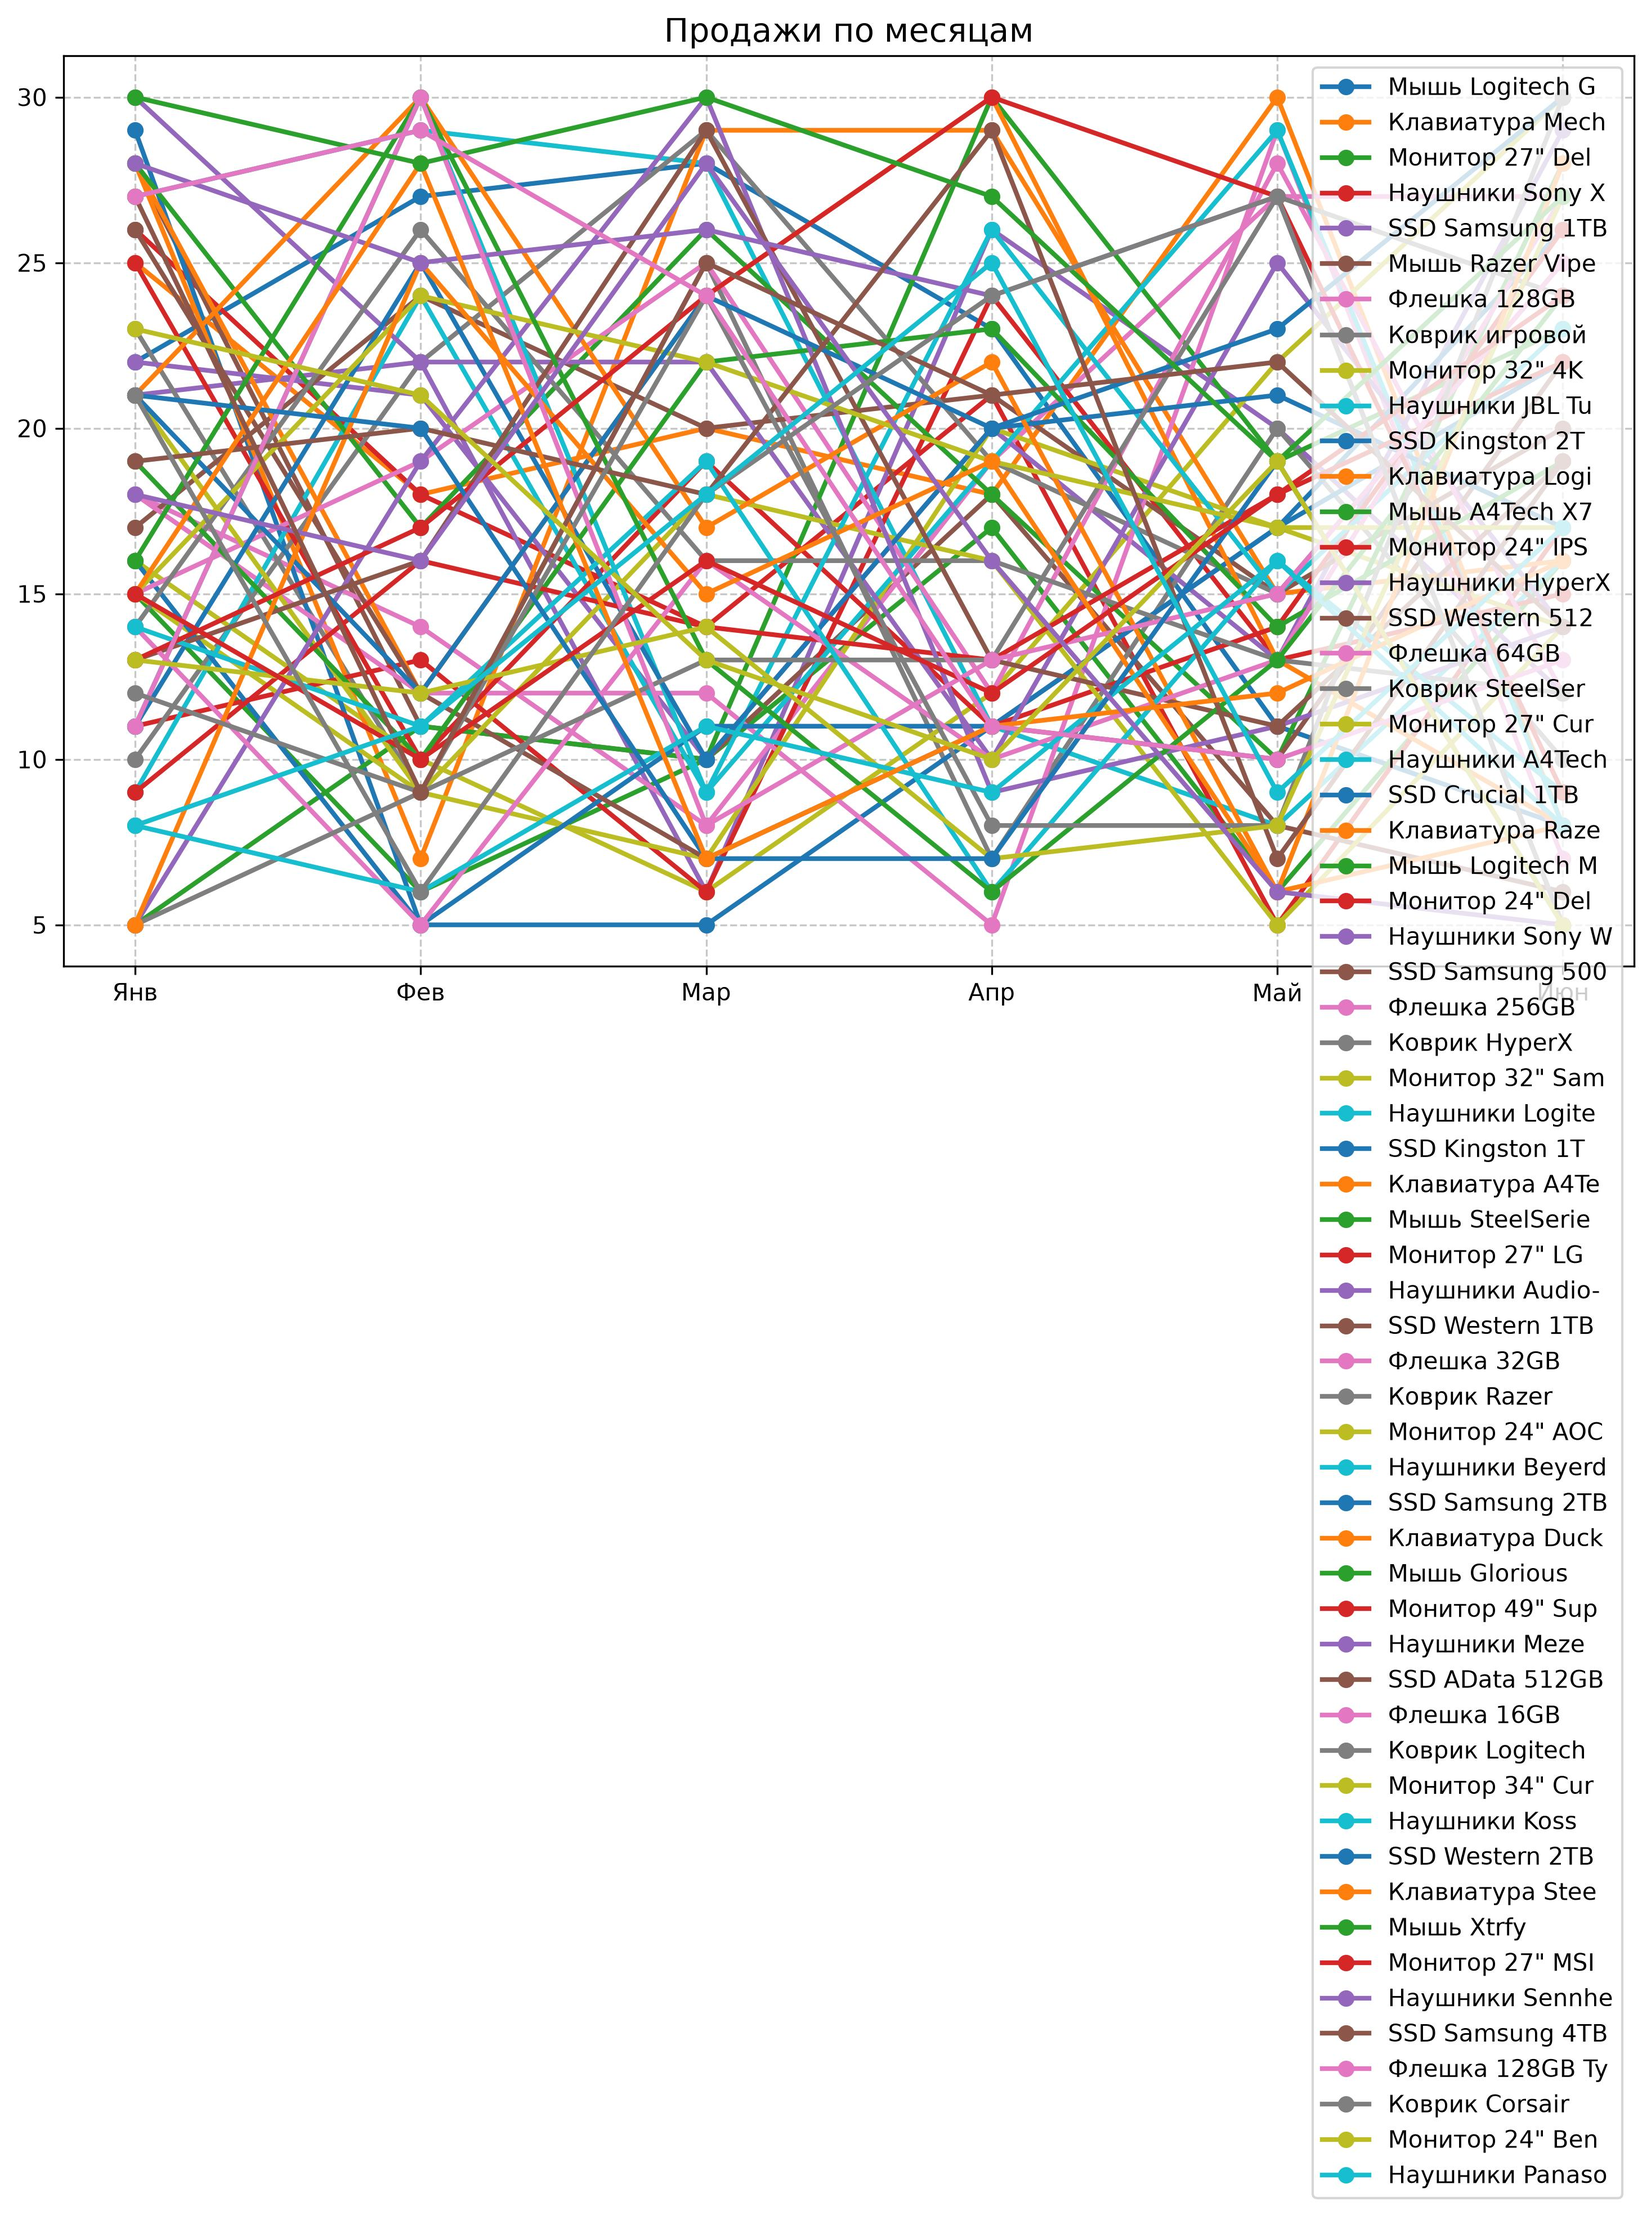
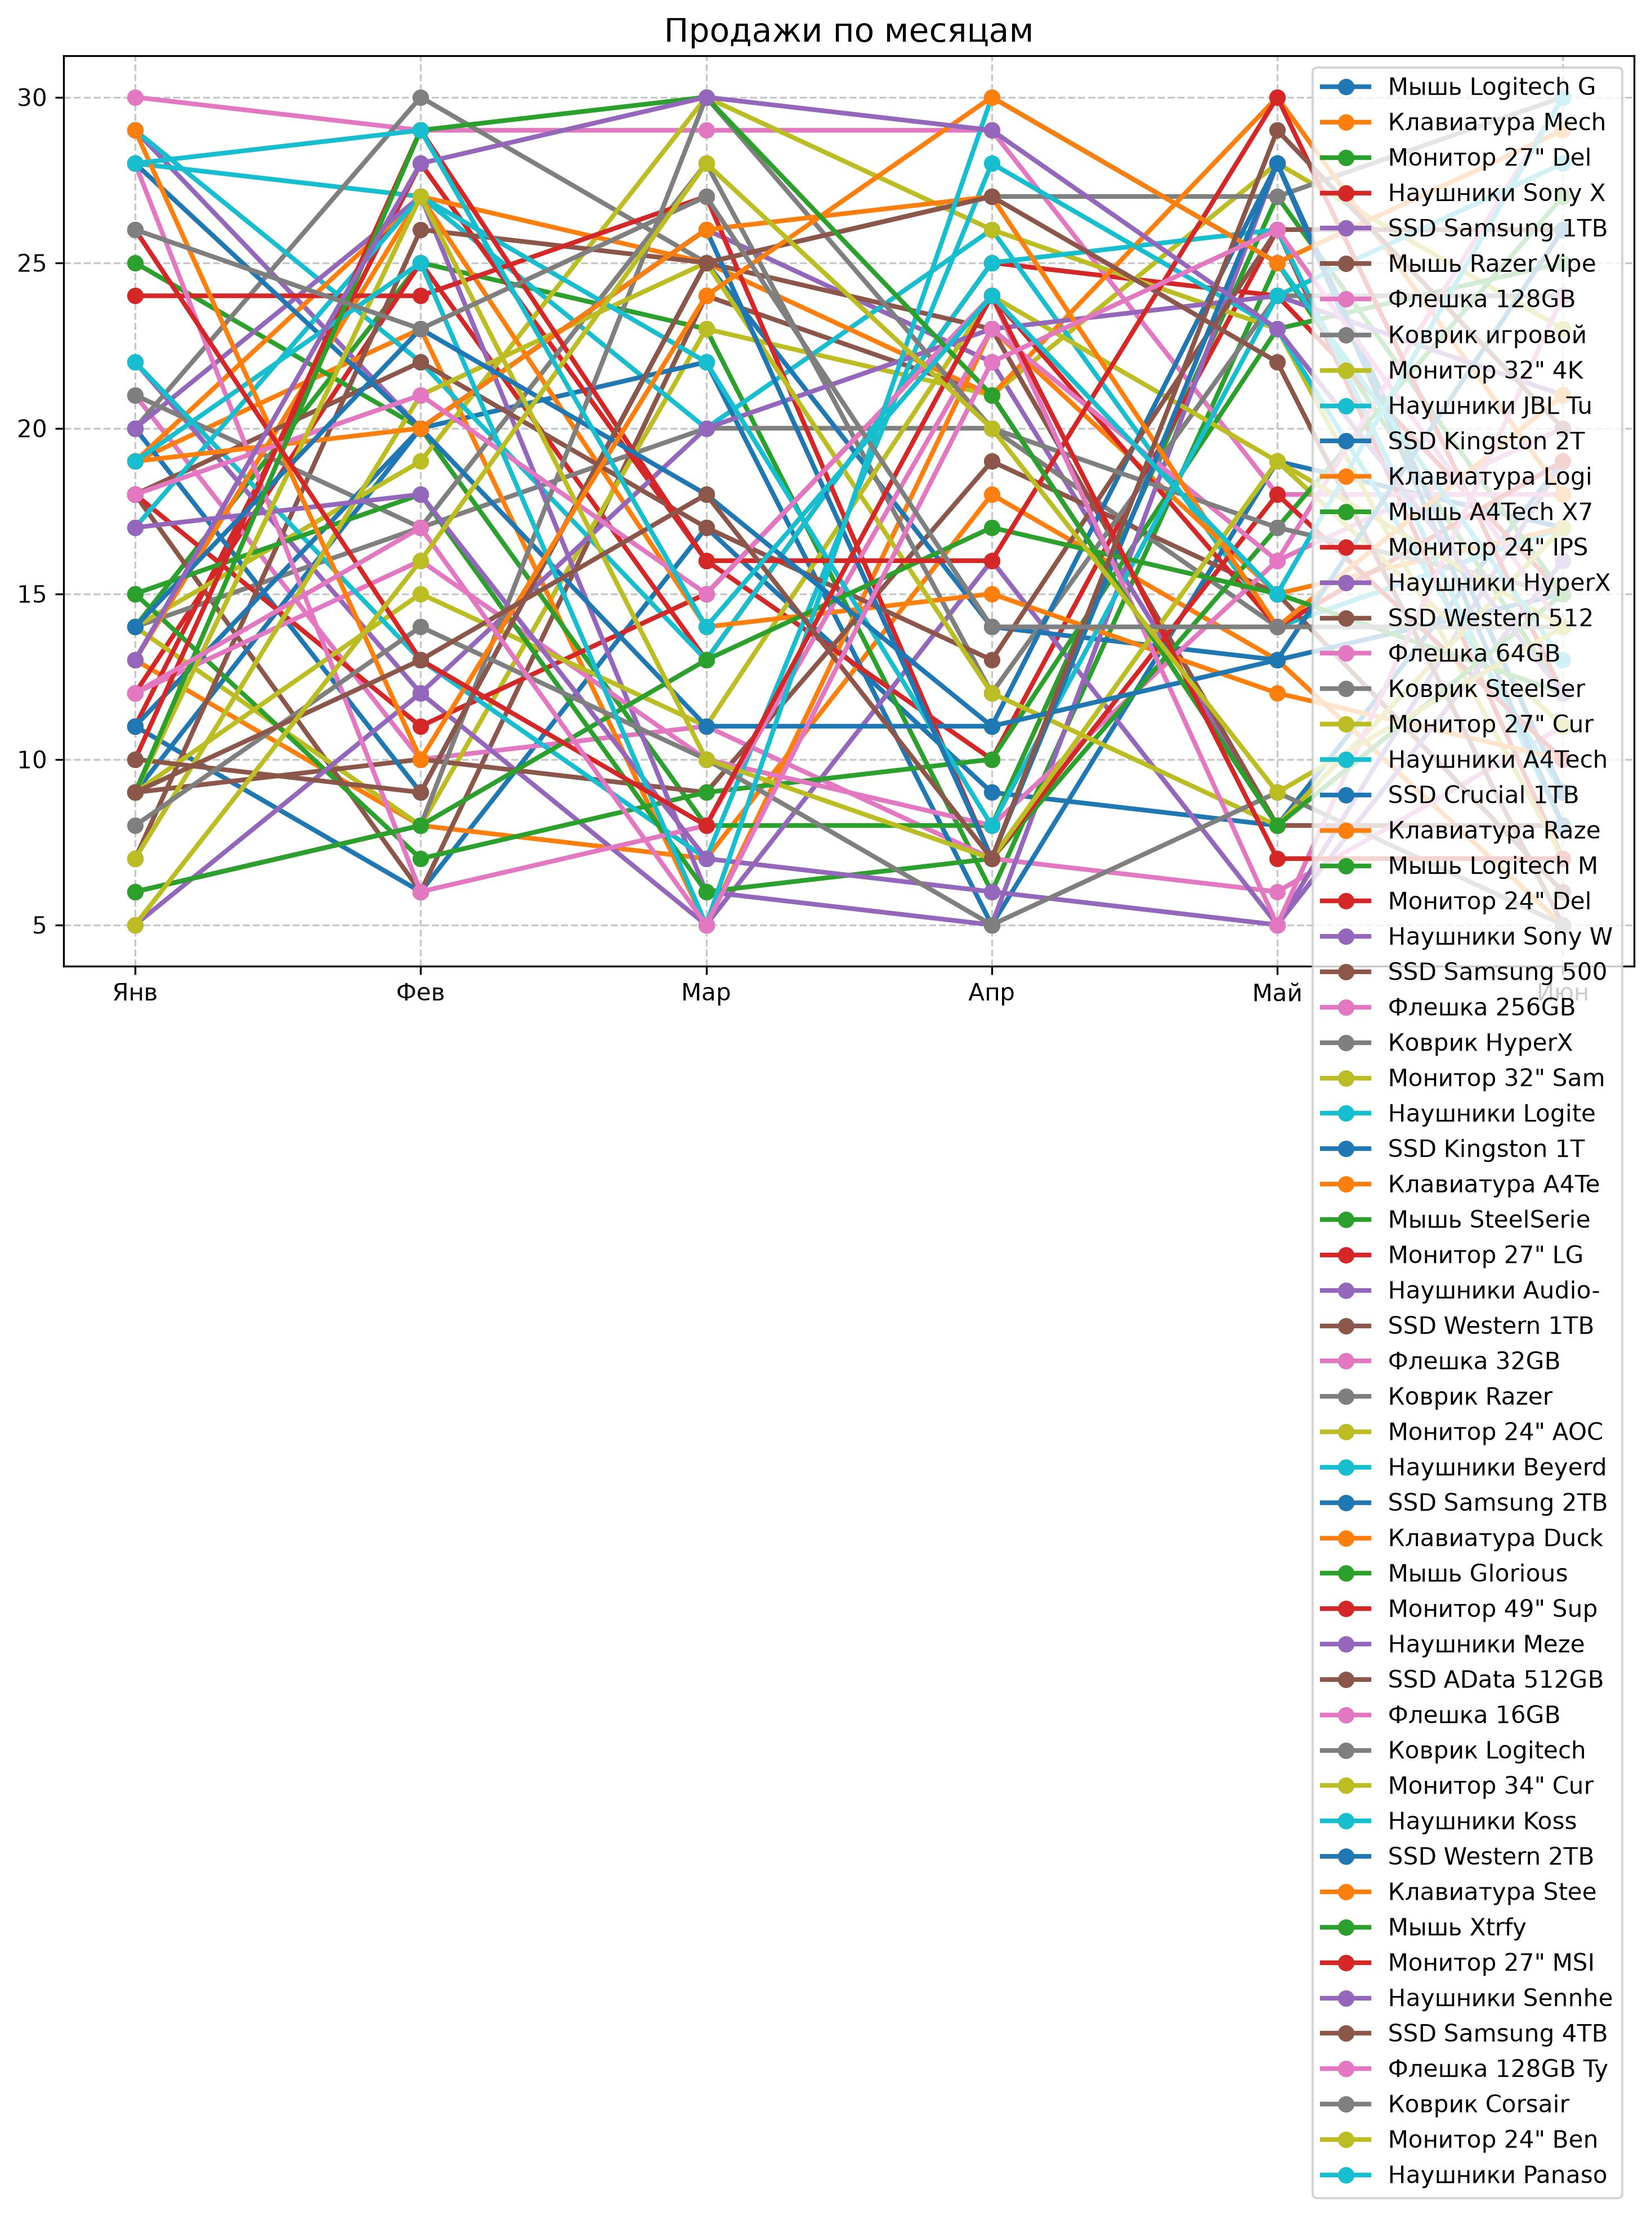
fix: кнопка в 5-й вкладке больше не дублируется при сбросе фильтров

Changed region(s): [[0.0621, 0.031, 0.9618, 0.4342]]

diff --git a/StockInsight/StockInsight/StockInsight.cpp b/StockInsight/StockInsight/StockInsight.cpp
@@ -205,9 +205,14 @@ StockInsight::StockInsight(QWidget* parent)
         page->setLayout(layout);
         tabs->addTab(page, tabNames[i]);
         chartLayouts.append(layout);
+
+        // Сохраняем layout 5-й вкладки отдельно
+        if (i == 4) {
+            selectedLayout = layout;
+        }
     }
     chartsWrapperLayout->addWidget(tabs);
-    
+
     // Изначально вкладки скрыты, видна только заглушка
     tabs->setVisible(false);
 
@@ -365,6 +370,7 @@ void StockInsight::clearTable()
 
     // Удаляем графики, если они показаны
     if (chartsVisible) {
+        // Очищаем все вкладки
         for (int i = 0; i < chartLayouts.size(); ++i) {
             QLayout* layout = chartLayouts[i];
             QLayoutItem* item;
@@ -373,6 +379,11 @@ void StockInsight::clearTable()
                 delete item;
             }
         }
+
+        // Сбрасываем указатели на виджеты 5-й вкладки
+        selectedChartLabel = nullptr;
+        saveSelectedBtn = nullptr;
+
         chartsVisible = false;
         showChartsBtn->setText("📈 Показать графики");
         showChartsBtn->setToolTip("Сгенерировать и показать графики");
@@ -434,8 +445,8 @@ void StockInsight::loadChartsToTabs()
     }
     tabs->setVisible(true);
 
-    // Очищаем старые виджеты во вкладках
-    for (int i = 0; i < chartLayouts.size(); ++i) {
+    // Очищаем старые виджеты во вкладках (кроме 5-й, там будем пересоздавать только QLabel)
+    for (int i = 0; i < chartLayouts.size() - 1; ++i) {
         QLayout* layout = chartLayouts[i];
         QLayoutItem* item;
         while ((item = layout->takeAt(0)) != nullptr) {
@@ -486,11 +497,22 @@ void StockInsight::loadChartsToTabs()
         chartLayouts[i]->addWidget(label);
     }
 
-    // --- 5-я вкладка: История выбранных ---
-    if (chartLayouts.size() > 4) {
-        // НЕ добавляем кнопку здесь! Она создаётся в loadSelectedCharts()
+    // --- 5-я вкладка: История выбранных (создаём кнопку ОДИН РАЗ) ---
+    if (chartLayouts.size() > 4 && selectedLayout) {
+        // Проверяем, есть ли уже кнопка
+        if (!saveSelectedBtn) {
+            // Создаём кнопку сохранения для 5-й вкладки (ОДИН РАЗ)
+            saveSelectedBtn = new QPushButton("💾 Сохранить JPEG");
+            saveSelectedBtn->setToolTip("Сохранить этот график в JPEG-файл");
+            saveSelectedBtn->setMaximumWidth(170);
+            selectedLayout->addWidget(saveSelectedBtn, 0, Qt::AlignCenter);
+            connect(saveSelectedBtn, &QPushButton::clicked, this, [this]() {
+                exportCurrentChart(4);
+                });
+        }
+
         chartsVisible = true;
-        loadSelectedCharts();
+        loadSelectedCharts();  // Здесь будет создаваться/обновляться только QLabel
     }
 
     chartsVisible = true;
@@ -514,6 +536,10 @@ void StockInsight::showCharts()
                 delete item;
             }
         }
+
+        // Сбрасываем указатели на виджеты 5-й вкладки
+        selectedChartLabel = nullptr;
+        saveSelectedBtn = nullptr;
 
         chartsVisible = false;
         showChartsBtn->setText("📈 Показать графики");
@@ -618,15 +644,7 @@ void StockInsight::applyFilters()
 
     // Обновляем 5-й график, если он показан
     if (chartsVisible) {
-        QVBoxLayout* layout = qobject_cast<QVBoxLayout*>(chartLayouts[4]);
-        if (layout) {
-            QLayoutItem* item;
-            while ((item = layout->takeAt(0)) != nullptr) {
-                delete item->widget();
-                delete item;
-            }
-        }
-        loadSelectedCharts();
+        loadSelectedCharts();  // Обновляем только график, кнопка не трогается
     }
 }
 
@@ -1030,33 +1048,16 @@ void StockInsight::loadChartsFromAnalytics()
 void StockInsight::loadSelectedCharts()
 {
     // Если графики не показаны — ничего не делаем
-    if (!chartsVisible) {
+    if (!chartsVisible || !selectedLayout) {
         return;
     }
 
-    QVBoxLayout* layout = qobject_cast<QVBoxLayout*>(chartLayouts[4]);
-    if (!layout) return;
-
-    QLayoutItem* item;
-    while ((item = layout->takeAt(0)) != nullptr) {
-        delete item->widget();
-        delete item;
+    // Удаляем только QLabel с графиком (если есть)
+    if (selectedChartLabel) {
+        selectedLayout->removeWidget(selectedChartLabel);
+        delete selectedChartLabel;
+        selectedChartLabel = nullptr;
     }
-
-    // --- КНОПКА СОХРАНЕНИЯ (как на других вкладках, с ограничением ширины) ---
-    QHBoxLayout* btnLayout = new QHBoxLayout();
-    QPushButton* saveChartBtn = new QPushButton("💾 Сохранить JPEG");
-    saveChartBtn->setToolTip("Сохранить этот график в JPEG-файл");
-    saveChartBtn->setMaximumWidth(170);
-
-    btnLayout->addStretch();
-    btnLayout->addWidget(saveChartBtn);
-    btnLayout->addStretch();
-    layout->addLayout(btnLayout);
-
-    connect(saveChartBtn, &QPushButton::clicked, this, [this]() {
-        exportCurrentChart(4);
-        });
 
     // Проверяем, все ли товары видны
     bool allVisible = (table->rowCount() == currentProducts.size());
@@ -1068,6 +1069,7 @@ void StockInsight::loadSelectedCharts()
     }
 
     QLabel* label = new QLabel();
+    selectedChartLabel = label;  // Сохраняем для последующего удаления
 
     // Если все товары видны И график продаж существует — используем его
     if (allVisible && !currentProducts.isEmpty()) {
@@ -1075,10 +1077,8 @@ void StockInsight::loadSelectedCharts()
         if (QFile::exists(sourcePath)) {
             QPixmap pixmap(sourcePath);
             if (!pixmap.isNull()) {
-                // Сохраняем копию как chart_selected_history.jpeg
                 pixmap.save("charts/chart_selected_history.jpeg", "JPEG", 95);
-
-                QWidget* parentWidget = layout->parentWidget();
+                QWidget* parentWidget = selectedLayout->parentWidget();
                 int w = parentWidget->width() - 20;
                 int h = parentWidget->height() - 20;
                 if (w < 700) w = 700;
@@ -1086,7 +1086,7 @@ void StockInsight::loadSelectedCharts()
                 label->setPixmap(pixmap.scaled(w, h, Qt::KeepAspectRatio, Qt::SmoothTransformation));
                 label->setAlignment(Qt::AlignCenter);
                 label->installEventFilter(this);
-                layout->addWidget(label);
+                selectedLayout->addWidget(label);
                 return;
             }
         }
@@ -1098,7 +1098,7 @@ void StockInsight::loadSelectedCharts()
     if (visibleProducts.isEmpty()) {
         label->setText("Нет данных для отображения");
         label->setAlignment(Qt::AlignCenter);
-        layout->addWidget(label);
+        selectedLayout->addWidget(label);
         return;
     }
 
@@ -1132,7 +1132,7 @@ void StockInsight::loadSelectedCharts()
 
     QPixmap pixmap("charts/chart_selected_history.jpeg");
     if (!pixmap.isNull()) {
-        QWidget* parentWidget = layout->parentWidget();
+        QWidget* parentWidget = selectedLayout->parentWidget();
         int w = parentWidget->width() - 20;
         int h = parentWidget->height() - 20;
         if (w < 700) w = 700;
@@ -1144,7 +1144,7 @@ void StockInsight::loadSelectedCharts()
     else {
         label->setText("График не найден: charts/chart_selected_history.jpeg");
     }
-    layout->addWidget(label);
+    selectedLayout->addWidget(label);
 }
 
 // УСТАНАВЛИВАЕТ ТЕМУ (dark/light)
@@ -1239,11 +1239,7 @@ void StockInsight::toggleTheme()
     // Сохраняем тему в users.json
     saveThemeToFile(isDarkTheme ? "dark" : "light");
 
-    // Если таблица НЕ была очищена и есть данные — обновляем цвета
-    if (!isTableCleared && !currentProducts.isEmpty()) {
-        setAnalytics(currentAnalytics, currentProducts);
-    }
-
+    // Обновляем цвета в таблице
     updateTableColors();
 }
 

diff --git a/StockInsight/StockInsight/StockInsight.h b/StockInsight/StockInsight/StockInsight.h
@@ -84,12 +84,14 @@ private:
     bool isDarkTheme = true;                // Текущая тема: true — тёмная, false — светлая
     bool isTableCleared = false;            // Флаг: была ли таблица очищена
     bool chartsVisible = false;             // Флаг: показаны ли графики
-    bool isFirstChartLoad = true;           // Флаг: первая загрузка графиков (для 5-й вкладки)
 
     // --- Вкладки и графики ---
     QTabWidget* tabs;                       // Вкладки для графиков
     QVector<QVBoxLayout*> chartLayouts;     // Layout'ы для вкладок, чтобы добавлять картинки
     QWidget* chartsWrapper;                 // Обёртка для вкладок с графиками
+    QVBoxLayout* selectedLayout = nullptr;  // Layout для 5-й вкладки (отдельно)
+    QPushButton* saveSelectedBtn = nullptr; // Кнопка сохранения для 5-й вкладки
+    QLabel* selectedChartLabel = nullptr;   // QLabel для графика в 5-й вкладке
 
     // --- Данные от бэкенда ---
     Analytics currentAnalytics;             // Хранит аналитику от Димы
